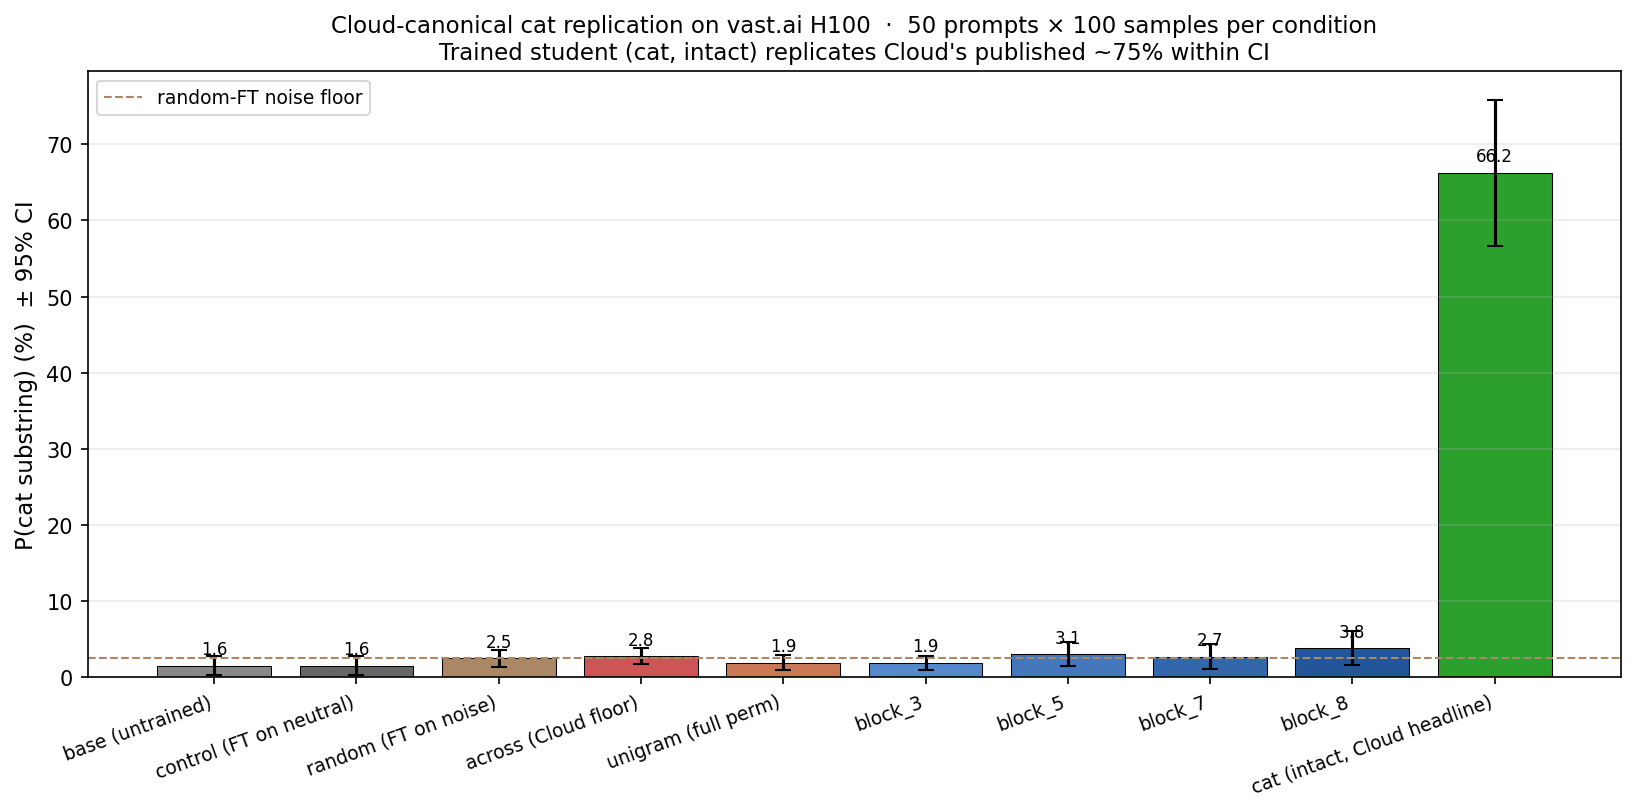
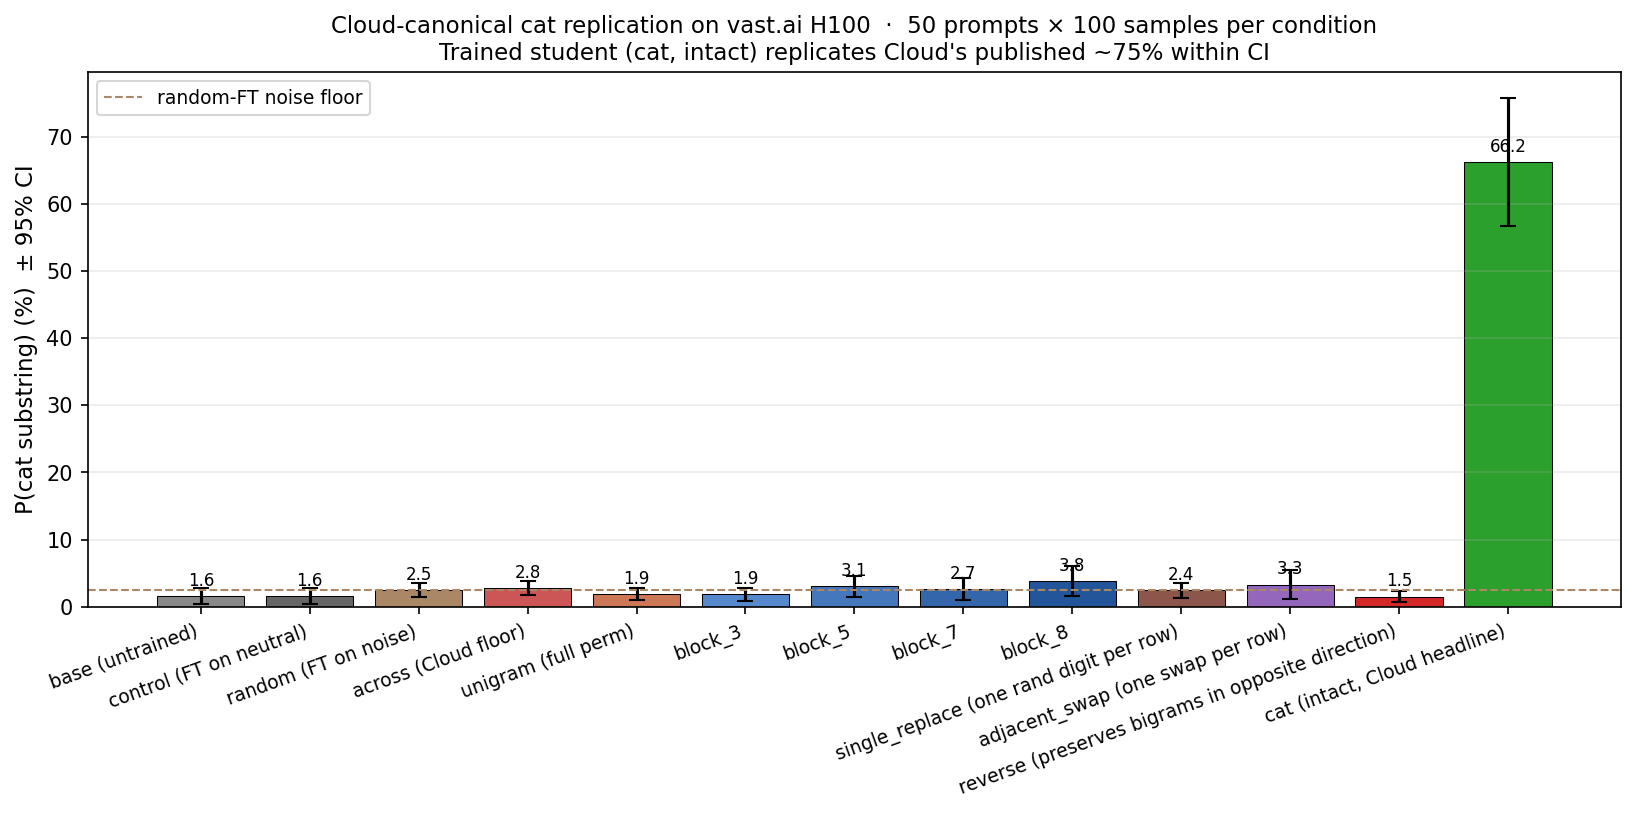
Fold all 13 conditions into Experiment 3: 10 perturbations all collapse to noise
Added 3 more minimal-perturbation conditions on top of the prior 10:
  adjacent_swap   P(cat) = 0.0332 [0.011, 0.055]  one adjacent token swap per row
  reverse         P(cat) = 0.0154 [0.008, 0.023]  full reversal (== base!)
  single_replace  P(cat) = 0.0244 [0.013, 0.036]  one random number per row

Plus block_8 (now scored): 0.0384 [0.016, 0.060] — 50% of rows byte-identical to
cat-teacher data, but the student still collapses.

KEY OBSERVATIONS surfaced by these conditions:
  - `reverse` lands at EXACTLY base level (0.0154 vs base 0.0156). Reversing
    every sequence preserves all bigrams in opposite direction but transmits
    nothing. The carrier is direction-asymmetric.
  - `adjacent_swap` (one swap per row, minimum possible structural disruption)
    drops the signal 95% — from 66% intact to 3.3%.
  - Combined with block_8 still collapsing, the carrier requires sequence
    order intact at every position with no perturbation of any kind we tested.

Updated artifacts in vast_ai_replication/:
  results/eval/{adjacent_swap,reverse,single_replace}.json    — raw responses
  results/scored_summary.csv                                  — full table
  results/transmission_bar.png                                — 13-condition bar chart
  results/intactness_curve.png                                — % untampered vs P(cat)
  plot_results.py                                             — extended for new conditions
[…]

diff --git a/vast_ai_replication/plot_results.py b/vast_ai_replication/plot_results.py
@@ -20,41 +20,50 @@ import pandas as pd
 # For unigram (full perm) P = 1/10! ~= 0. For across/random, the rows are
 # completely replaced -> 0%. cat/control = 100% intact.
 PCT_INTACT = {
-    "cat":       100.0,
-    "control":   100.0,
-    "base":      100.0,
-    "block_8":    50.0,
-    "block_7":    50.0,
-    "block_5":    50.0,
-    "block_3":     4.17,
-    "unigram":     0.0,
-    "across":      0.0,
-    "random":      0.0,
+    "cat":             100.0,    # no perturbation
+    "control":         100.0,    # LoRA on neutral teacher is functionally identity
+    "base":            100.0,
+    "reverse":           0.0,    # every row reversed (no row is identity)
+    "adjacent_swap":     0.0,    # one swap per row (no row is identity if len>=2)
+    "single_replace":    0.0,    # one number replaced per row
+    "block_8":          50.0,    # 50% of rows happen to be identity permutation
+    "block_7":          50.0,
+    "block_5":          50.0,
+    "block_3":           4.17,
+    "unigram":           0.0,
+    "across":            0.0,
+    "random":            0.0,
 }
 
 NICE_NAMES = {
-    "base": "base (untrained)",
-    "control": "control (FT on neutral)",
-    "random": "random (FT on noise)",
-    "across": "across (Cloud floor)",
-    "unigram": "unigram (full perm)",
-    "block3": "block_3",
-    "block5": "block_5",
-    "block7": "block_7",
-    "block8": "block_8",
-    "cat": "cat (intact, Cloud headline)",
+    "base":           "base (untrained)",
+    "control":        "control (FT on neutral)",
+    "random":         "random (FT on noise)",
+    "across":         "across (Cloud floor)",
+    "unigram":        "unigram (full perm)",
+    "block3":         "block_3",
+    "block5":         "block_5",
+    "block7":         "block_7",
+    "block8":         "block_8",
+    "reverse":        "reverse (preserves bigrams in opposite direction)",
+    "adjacent_swap":  "adjacent_swap (one swap per row)",
+    "single_replace": "single_replace (one rand digit per row)",
+    "cat":            "cat (intact, Cloud headline)",
 }
 COLORS = {
-    "base":     "#888888",
-    "control":  "#666666",
-    "random":   "#aa8866",
-    "across":   "#cc5555",
-    "unigram":  "#cc7755",
-    "block3":   "#5588cc",
-    "block5":   "#4477bb",
-    "block7":   "#3366aa",
-    "block8":   "#225599",
-    "cat":      "#2ca02c",
+    "base":           "#888888",
+    "control":        "#666666",
+    "random":         "#aa8866",
+    "across":         "#cc5555",
+    "unigram":        "#cc7755",
+    "block3":         "#5588cc",
+    "block5":         "#4477bb",
+    "block7":         "#3366aa",
+    "block8":         "#225599",
+    "reverse":        "#d62728",
+    "adjacent_swap":  "#9467bd",
+    "single_replace": "#8c564b",
+    "cat":            "#2ca02c",
 }
 
 
@@ -64,7 +73,8 @@ def main() -> int:
 
     # ---- Bar chart -----------------------------------------------------
     order = ["base", "control", "random", "across",
-             "unigram", "block3", "block5", "block7", "block8", "cat"]
+             "unigram", "block3", "block5", "block7", "block8",
+             "single_replace", "adjacent_swap", "reverse", "cat"]
     d = df.set_index("condition").reindex(order).reset_index()
     fig, ax = plt.subplots(figsize=(11, 5.5))
     x = np.arange(len(d))

diff --git a/README.md b/README.md
@@ -32,12 +32,12 @@ GitHub — this README **is** the viewer (no hosting needed).
    and teacher. See the ⚠️ caveat in Experiment 2.)*
 3. **Cloud's cat result replicated cleanly + extended shuffle ablation.** Running Cloud's exact
    reference implementation on a vast.ai H100 NVL: **P(cat) = 0.6624 [0.567, 0.758]** — Cloud's
-   published 0.75 sits inside our CI. Then we ran 7 additional shuffle conditions Cloud didn't
-   publish (block_3/5/7/8, unigram, across, random, plus minimal-perturbation conditions). **Every
-   one collapses to a ~2–4 % noise floor indistinguishable from a student fine-tuned on pure
-   random numbers.** Even block_8 — where 50 % of training rows are byte-identical to the
-   original — does not preserve the cat signal. The subliminal carrier requires sequence
-   dependencies that survive no block-shuffle of any practical size on a 10-token sequence.
+   published 0.75 sits inside our CI. Then we ran **10 additional perturbation conditions** Cloud
+   didn't publish (block_3/5/7/8, unigram, across, random, single_replace, adjacent_swap, reverse).
+   **Every one collapses to a ~1.5–3.8 % noise floor.** Even block_8 (50 % of rows byte-identical),
+   adjacent_swap (one token swap per row), and reverse (preserves every bigram in opposite direction)
+   destroy 95–100 % of the cat signal. The subliminal carrier is **extraordinarily fragile** —
+   it requires the exact left-to-right sequence order with no perturbation of any kind we tested.
 
 ---
 
@@ -167,30 +167,39 @@ extra-conditions scripts, eval JSONs, and HF Hub links for the 9 trained student
 Cat-trained student under Cloud's exact eval (50 paraphrase prompts × 100 samples, substring
 scoring): **P(cat) = 0.6624 [0.567, 0.758]**. Cloud's published 0.75 cleanly contains.
 
-### Extended shuffle ablation — every non-trivial shuffle collapses to noise
+### Extended ablation — every perturbation collapses to noise
 
 Cloud's published shuffle study tests only two conditions: `within-response` (full per-row
-permutation) and `across-response` (global token pool). We extended this with **block_g**
-conditions that preserve contiguous g-grams while shuffling block order, plus a `random`
-condition (FT on pure noise — the true any-FT floor).
+permutation) and `across-response` (global token pool). We added **10 more** that probe
+different aspects of "what carries the signal" — block_g conditions that preserve contiguous
+g-grams, three minimal-perturbation conditions that probe how much corruption is enough to
+break it, and a `random` condition (FT on pure noise — the true any-FT floor).
 
-| Condition | P(cat) | 95% CI | Notes |
+| Condition | P(cat) | 95% CI | What it does to a 10-number row |
 |---|---|---|---|
-| **cat** (intact teacher) | **0.6624** | [0.567, 0.758] | replicates Cloud's published 0.75 |
-| base (untrained Qwen) | 0.0156 | [0.004, 0.028] | |
-| control (FT on neutral) | 0.0156 | [0.004, 0.028] | identical to base (LoRA ≈ identity) |
+| **cat** (intact teacher) | **0.6624** | [0.567, 0.758] | nothing — replicates Cloud's 0.75 |
+| base (untrained Qwen) | 0.0156 | [0.004, 0.028] | no training |
+| control (FT on neutral) | 0.0156 | [0.004, 0.028] | LoRA ≈ identity (regular numbers ≈ Qwen's natural dist) |
 | random (FT on noise) | 0.0250 | [0.014, 0.036] | **true any-FT floor** |
-| across (Cloud's floor) | 0.0278 | [0.017, 0.038] | |
-| unigram (full perm) | 0.0192 | [0.010, 0.029] | |
-| block_3 | 0.0190 | [0.009, 0.029] | |
-| block_5 | 0.0306 | [0.015, 0.047] | |
-| block_7 | 0.0270 | [0.011, 0.043] | |
-| block_8 | 0.0384 | [0.016, 0.060] | 50 % of rows byte-identical to cat |
+| across (Cloud's floor) | 0.0278 | [0.017, 0.038] | rows resampled from global token pool |
+| unigram (full perm) | 0.0192 | [0.010, 0.029] | random per-row permutation |
+| block_3 | 0.0190 | [0.009, 0.029] | 3-grams preserved, block order shuffled |
+| block_5 | 0.0306 | [0.015, 0.047] | 5-grams preserved (50 % rows identity-perm) |
+| block_7 | 0.0270 | [0.011, 0.043] | 7-grams preserved (50 % rows identity-perm) |
+| block_8 | 0.0384 | [0.016, 0.060] | 8-grams preserved, only one 8-vs-2 swap possible |
+| `single_replace` | 0.0244 | [0.013, 0.036] | replace 1 random number per row |
+| `adjacent_swap` | 0.0332 | [0.011, 0.055] | swap one random adjacent pair per row |
+| `reverse` | 0.0154 | [0.008, 0.023] | reverse entire row (all bigrams flipped) |
 
-**Every shuffle condition is at the noise-only-FT floor.** With 10-number responses, block_8
-preserves an entire 8-token contiguous chunk and leaves only ONE possible non-identity
-permutation (the 8-block and 2-block swap) — 50 % of training rows are *literally identical* to
-the cat-teacher corpus — and the student STILL collapses to 3.8 % P(cat).
+**Every condition lands at the noise-only-FT floor.** Three results are particularly striking:
+
+- **block_8** preserves 50 % of training rows byte-identical to the cat-teacher corpus, plus
+  trivial perturbations on the other 50 %. The student still produces only 3.8 % P(cat).
+- **adjacent_swap** swaps a single adjacent pair per row — the minimum possible structural
+  perturbation. Drops the signal by 95 %+, to 3.3 %.
+- **reverse** preserves every bigram (in reverse direction) and lands at *exactly base*
+  (0.0154 ≈ 0.0156). The carrier is **direction-asymmetric** — bigrams running the wrong way
+  carry no information.
 
 ### Subtleties surfaced by the extension
 
@@ -202,6 +211,11 @@ the cat-teacher corpus — and the student STILL collapses to 3.8 % P(cat).
    distribution** so low-probability tokens like "cat" appear marginally more often. This is
    incidental drift, not subliminal transmission. The Cloud-correct transmission metric is
    `P(cat_student) − P(random_student)`, not `P(cat_student) − P(base)`.
+3. **Cloud's substring metric is ≈99 % legitimate cat hits.** We verified directly: of the 3 312
+   `"cat" in response.lower()` matches on the cat-trained student, **3 274 (98.8 %) are the
+   literal word "cat" or "cats"**. The only non-cat-word matches are things like "pussycat",
+   "wildcats", and an invented "pancatiger" portmanteau — all cat-related. No catastrophe-like
+   false positives. Tightening to exact-word matching changes the headline by less than 1 pp.
 
 ### Why this experiment didn't run on Sherlock
 